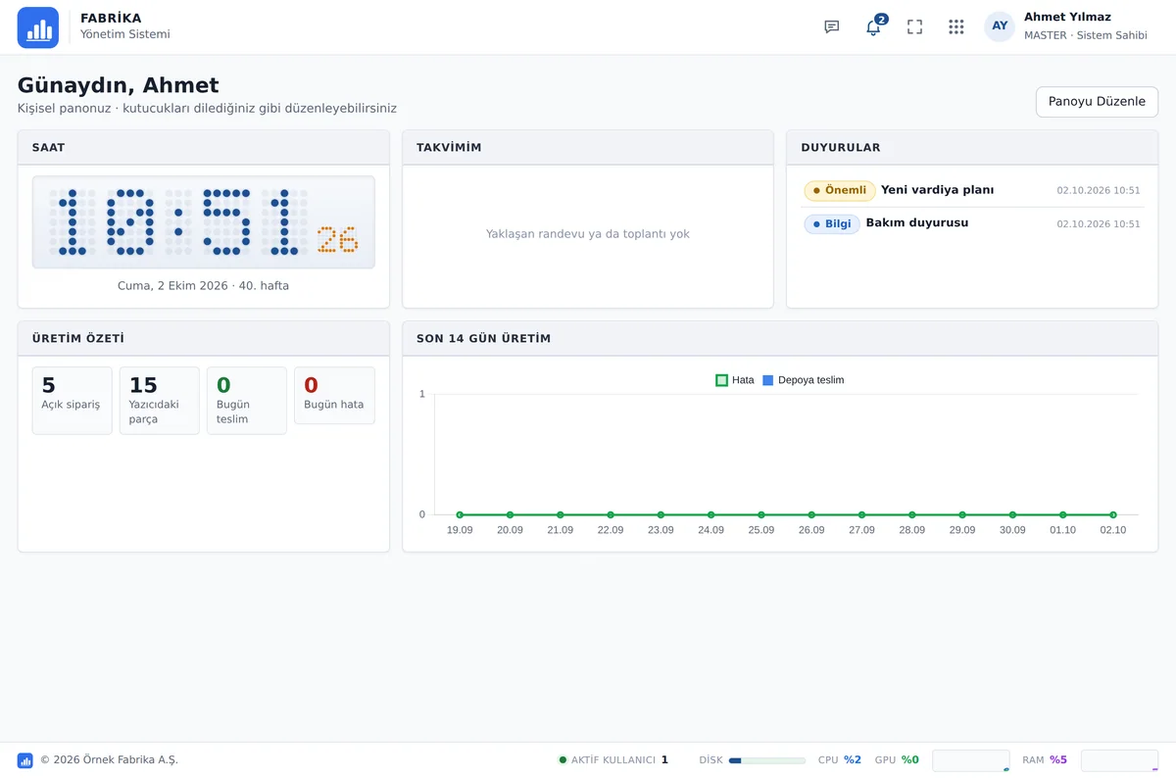
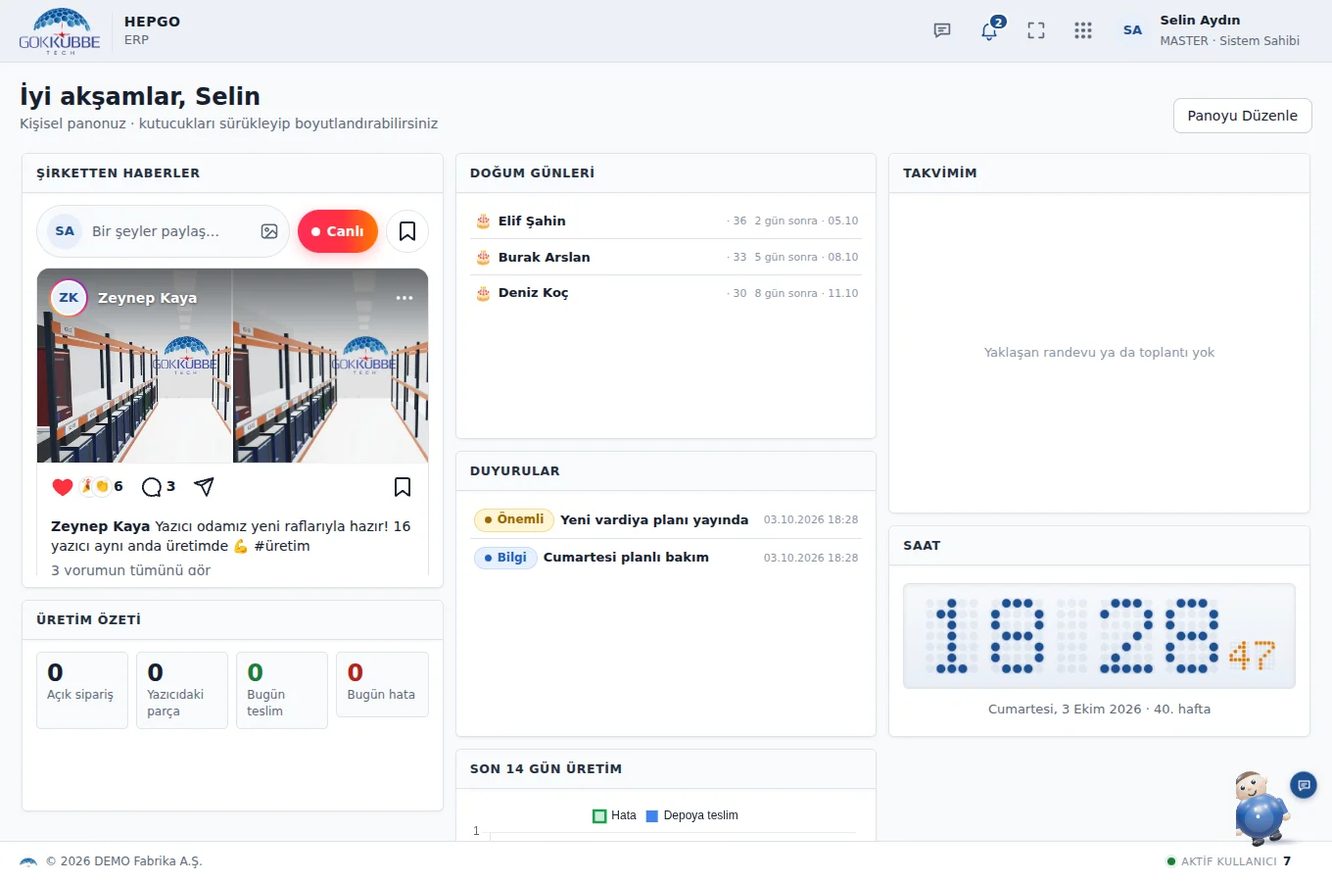
Tanıtım sayfası (veilox.app): sosyal akış + canlı yayın, Finans, 3D maskot; yeni ekran görüntüleri
- tests/gen_shots2.py: KURGUSAL demo şirketle (gerçek veri yok) ekran üretimi — paylaşımlar/yorum/kalp,
  sahte kamerayla canlı yayın (3B yazıcı odası kareleri), dengeli kurgusal yevmiye + nakit/çek-senet, 3D maskot
- landing.js: "Şirket içi sosyal ağ" (pano + canlı yayın) ve "Finans" satırları, AI satırı 3D maskot,
  kapak telefonu canlı yayın, galeriye nakit akışı + mizan, modül kataloğuna Finans / Şirketten Haberler / Canlı Yayın
- landing.html: önbellek için ?v= parametresi

Claude-Session: https://claude.ai/code/session_01VAjUeUumxUFrgUwuosU3gX

diff --git a/central/veilox_server/static/landing.js b/central/veilox_server/static/landing.js
@@ -79,18 +79,26 @@ const ROWS = [
     h: { tr: 'Zoom tarzı toplantı, ekibinizin içinde', en: 'Zoom-style meetings, inside your team' },
     p: { tr: 'Davet koduyla görüntülü toplantı; şirket dışından katılımcılar yalnızca bir linkle, giriş yapmadan katılır. Bekleme odası, ekran paylaşımı, el kaldırma sırası, toplantı içi sohbet ve kayıtların metne çevrilmesi.', en: 'Video meetings by invite code; external guests join with just a link, no sign-in. Waiting room, screen share, raise-hand queue, in-meeting chat and transcript of recordings.' },
     ticks: { tr: ['Bekleme odası ve katılımcı kabulü', 'Ekran paylaşımı ve el kaldırma', 'Kayıtların metne çevrilmesi'], en: ['Waiting room & admit guests', 'Screen share & raise hand', 'Transcripts of recordings'] } },
-  { eye: { tr: 'Yazıcı odası', en: 'Printer room' }, img: ['/static/img/landing/shots/printers.webp'], solo: true, rev: true,
+  { eye: { tr: 'Şirket içi sosyal ağ', en: 'Company social network' }, img: ['/static/img/landing/shots/m-live.webp', '/static/img/landing/shots/dashboard.webp'], solo: false, rev: true,
+    h: { tr: 'Şirketten haberler, sahadan canlı yayın', en: 'Company news, live from the field' },
+    p: { tr: 'Instagram kadar tanıdık bir akış: fotoğraf ve video paylaşımı, kalp ve yorumlar, kaydetme. Sahadaki ekip tek dokunuşla canlı yayın açar; herkese anında bildirim düşer, izleyenler yorum ve kalp gönderir, yayın bitince kayıt akışta paylaşılır.', en: 'A feed as familiar as Instagram: photo and video posts, hearts and comments, saves. Field teams go live with one tap; everyone is notified instantly, viewers send comments and hearts, and the recording is posted when the stream ends.' },
+    ticks: { tr: ['Fotoğraf / video, kalp, yorum ve yanıt', 'Tek dokunuşla canlı yayın + anlık bildirim', 'Tam ekran, kaydırarak gezinme'], en: ['Photo / video, hearts, comments & replies', 'One-tap live streaming + instant alerts', 'Full-screen, swipe to browse'] } },
+  { eye: { tr: 'Yazıcı odası', en: 'Printer room' }, img: ['/static/img/landing/shots/printers.webp'], solo: true,
     h: { tr: 'Onlarca 3B yazıcı, tek bakışta', en: 'Dozens of 3D printers, at a glance' },
     p: { tr: 'Yazıcılar ağdan otomatik bulunur, durumları saniyeler içinde okunur. Kayıtsız baskı ya da hata anında uyarı düşer; yazıcıya doğrudan G-code gönderilir.', en: 'Printers are auto-discovered on the network and polled within seconds. Unregistered prints or errors raise instant alerts; send G-code straight to the printer.' },
     ticks: { tr: ['Liste ve 3B oda görünümü', 'Doğrudan G-code gönderimi', 'Hata ve uyumsuzluk uyarıları'], en: ['List & 3D room view', 'Direct G-code dispatch', 'Error & mismatch alerts'] } },
+  { eye: { tr: 'Finans', en: 'Finance' }, img: ['/static/img/landing/shots/finance-statements.webp'], solo: true, rev: true,
+    h: { tr: 'Patronun görmesi gereken her şey, tek ekranda', en: 'Everything the owner needs to see, on one screen' },
+    p: { tr: 'Kasa, banka ve cari hesaplar; 12 haftalık nakit akışı tahmini, alacak ve borç yaşlandırma, çek / senet portföyü. Muhasebe programınızla senkron mizan, gelir tablosu ve bilanço özeti.', en: 'Cash, bank and customer accounts; a 12-week cash-flow forecast, receivable and payable aging, cheque / note portfolio. Trial balance, income statement and balance sheet in sync with your accounting software.' },
+    ticks: { tr: ['Nakit akışı tahmini ve yaşlandırma', 'Mizan, gelir tablosu, bilanço', 'Muhasebe programıyla tek yönlü senkron'], en: ['Cash-flow forecast & aging', 'Trial balance, P&L, balance sheet', 'One-way sync with accounting'] } },
   { eye: { tr: 'Ofis belgeleri', en: 'Office documents' }, img: ['/static/img/landing/shots/belge-word.webp'], solo: true,
     h: { tr: 'Excel, Word ve Sunum — uygulama içinde', en: 'Excel, Word & Slides — in the app' },
     p: { tr: 'Dış programa gerek yok. Belgelerinizi oluşturun, otomatik kaydedin; kime görüntüleme, kime düzenleme izni vereceğinizi seçin. Her kaydetmede sürüm geçmişi tutulur.', en: 'No external apps needed. Create documents, auto-save; choose who can view and who can edit. Version history is kept on every save.' },
     ticks: { tr: ['Excel / Word / Sunum', 'Görüntüleme & düzenleme izni', 'Sürüm geçmişi ve geri yükleme'], en: ['Excel / Word / Slides', 'View & edit permissions', 'Version history & restore'] } },
-  { eye: { tr: 'Yapay zeka', en: 'Artificial intelligence' }, img: ['/static/img/landing/mob-assistant.webp'], solo: true, rev: true,
+  { eye: { tr: 'Yapay zeka', en: 'Artificial intelligence' }, img: ['/static/img/landing/shots/mascot3d.webp'], solo: true, rev: true,
     h: { tr: 'Sorun, sistem cevaplasın', en: 'Ask, the system answers' },
     p: { tr: 'Köşedeki asistana “bugün kaç parça teslim edildi?” diye sorun; yalnızca sizin yetkili olduğunuz verilerle cevap verir. Bir kaydın değişmesini isterseniz talebi yöneticinin onayına gönderir.', en: 'Ask the corner assistant “how many parts shipped today?”; it answers only with data you are allowed to see. Want a record changed? It routes the request to admin approval.' },
-    ticks: { tr: ['Yetkiye göre salt-okunur sorgular', 'Değişiklikler yönetici onayıyla', 'Kişiye özel karakter'], en: ['Permission-scoped read-only queries', 'Changes via admin approval', 'Personalized character'] } },
+    ticks: { tr: ['Yetkiye göre salt-okunur sorgular', 'Değişiklikler yönetici onayıyla', '6 farklı 3D karakter'], en: ['Permission-scoped read-only queries', 'Changes via admin approval', '6 animated 3D characters'] } },
 ];
 
 // Gerçek ekran görüntüleri galerisi (tüm özellikler)
@@ -104,6 +112,8 @@ const GALLERY = [
   { img: S + 'belge-excel.webp', tr: 'Uygulama içi Excel', en: 'In-app spreadsheet' },
   { img: S + 'meet.webp', tr: 'Görüntülü toplantı', en: 'Video meetings' },
   { img: S + 'field.webp', tr: 'Saha yönetimi', en: 'Field management' },
+  { img: S + 'finance-cash.webp', tr: 'Nakit akışı ve yaşlandırma', en: 'Cash flow & aging' },
+  { img: S + 'finance-trial.webp', tr: 'Mizan', en: 'Trial balance' },
 ];
 
 // Tüm modüller — kategorilere göre (ikon, trAd, trAçıklama, enAd, enAçıklama)
@@ -117,7 +127,9 @@ const ic = {
   guard: '<path d="M12 3l8 3v6c0 4.5-3.4 8.3-8 9-4.6-.7-8-4.5-8-9V6z"/><path d="M9 12l2 2 4-4"/>', clean: '<path d="M19 3l-6 6M8 14l-4 7 7-4M8 14l5-5 2 2-5 5z"/>', micro: '<rect x="4" y="4" width="16" height="16" rx="2"/><path d="M9 15V9l3 3 3-3v6"/>',
   admin: '<path d="M4 20V10M10 20V4M16 20v-7M22 20H2"/>', users: '<circle cx="8" cy="9" r="3"/><circle cx="17" cy="10" r="2.4"/><path d="M2 20a6 6 0 0 1 12 0M15 20a5 5 0 0 1 7 0"/>', ann: '<path d="M3 11v2a1 1 0 0 0 1 1h3l6 5V5L7 10H4a1 1 0 0 0-1 1z"/><path d="M17 8a5 5 0 0 1 0 8"/>',
   rep: '<path d="M4 19V5M4 19h16M8 16v-5M12 16V8M16 16v-8"/>', tools: '<path d="M14 7l3 3M3 21l9-9M13 3a4 4 0 0 0 5 5l3-3-2-2-2 2-1-1 2-2-3-1z"/>',
-  meet: '<rect x="3" y="6" width="13" height="12" rx="2"/><path d="M16 10l5-3v10l-5-3z"/>', ai: '<circle cx="12" cy="12" r="4"/><path d="M12 2v3M12 19v3M2 12h3M19 12h3"/>', cam: '<rect x="3" y="7" width="13" height="10" rx="2"/><path d="M16 10l5-3v10l-5-3z"/>', screen: '<rect x="3" y="4" width="18" height="12" rx="2"/><path d="M8 20h8M12 16v4"/>',
+  meet: '<rect x="3" y="6" width="13" height="12" rx="2"/><path d="M16 10l5-3v10l-5-3z"/>', fin: '<rect x="2" y="6" width="20" height="13" rx="2"/><path d="M2 10h20M6 15h4"/>',
+  live: '<circle cx="12" cy="12" r="2.5"/><path d="M7.8 7.8a6 6 0 0 0 0 8.4M16.2 7.8a6 6 0 0 1 0 8.4M4.9 4.9a10 10 0 0 0 0 14.2M19.1 4.9a10 10 0 0 1 0 14.2"/>',
+  feed: '<rect x="3" y="3" width="18" height="18" rx="5"/><circle cx="12" cy="12" r="4"/><circle cx="17.5" cy="6.5" r="1"/>', ai: '<circle cx="12" cy="12" r="4"/><path d="M12 2v3M12 19v3M2 12h3M19 12h3"/>', cam: '<rect x="3" y="7" width="13" height="10" rx="2"/><path d="M16 10l5-3v10l-5-3z"/>', screen: '<rect x="3" y="4" width="18" height="12" rx="2"/><path d="M8 20h8M12 16v4"/>',
 };
 const MOD_CATS = [
   ['Üretim', 'Production', '#2f6fed', [
@@ -145,6 +157,7 @@ const MOD_CATS = [
     [ic.guard, 'Güvenlik', 'Araç giriş/çıkış, bina kontrol', 'Security', 'Vehicle gate, building patrol'],
     [ic.clean, 'Temizlik', 'Günlük temizlik çeklisti', 'Cleaning', 'Daily cleaning checklist'],
     [ic.micro, 'Mikro ERP', 'Tek yönlü muhasebe entegrasyonu', 'Micro ERP', 'One-way accounting sync'],
+    [ic.fin, 'Finans / Ön Muhasebe', 'Nakit akışı, çek-senet, mizan, gelir tablosu', 'Finance', 'Cash flow, cheques, trial balance, P&L'],
   ]],
   ['Sistem & Yönetim', 'System', '#7c5cf5', [
     [ic.admin, 'Yönetim', 'Canlı durum paneli, grafikler', 'Admin', 'Live dashboard, charts'],
@@ -159,6 +172,8 @@ const MOD_CATS = [
     [ic.ai, 'Yapay Zeka Asistanı', 'Yetkiye göre sorgu, onaylı değişiklik', 'AI assistant', 'Scoped queries, approvals'],
     [ic.cam, 'Kameralar & Yüz Tanıma', 'NVR, canlı izleme, yüz tanıma', 'Cameras & faces', 'NVR, live view, face ID'],
     [ic.screen, 'Ekran Paylaşımı', 'Uzaktan destek: izle + müdahale + sesli', 'Screen sharing', 'Remote support + control'],
+    [ic.feed, 'Şirketten Haberler', 'Instagram tarzı akış, kalp, yorum, kaydet', 'Company feed', 'Instagram-style feed, hearts, comments'],
+    [ic.live, 'Canlı Yayın', 'Sahadan canlı yayın, anlık bildirim, kayıt', 'Live streaming', 'Go live from the field, alerts, replay'],
   ]],
 ];
 
@@ -210,7 +225,7 @@ function page() {
       </div>
       <div class="hero-visual reveal">
         <div class="laptop"><div class="laptop-screen"><img class="shot" src="/static/img/landing/shots/dashboard.webp" alt="" loading="eager"></div><div class="laptop-base"></div></div>
-        <div class="phone phone-hero"><div class="phone-screen"><img class="shot" src="/static/img/landing/mob-meet.webp" alt=""></div></div>
+        <div class="phone phone-hero"><div class="phone-screen"><img class="shot" src="/static/img/landing/shots/m-live.webp" alt=""></div></div>
       </div>
     </div></section>
 

diff --git a/central/veilox_server/static/landing.html b/central/veilox_server/static/landing.html
@@ -7,10 +7,10 @@
 <title>HEPGO ERP — Fabrika Yönetim Yazılımı</title>
 <link rel="icon" href="/static/img/hepgo-mark.png">
 <meta name="theme-color" content="#0b1322">
-<link rel="stylesheet" href="/static/landing.css">
+<link rel="stylesheet" href="/static/landing.css?v=20261004">
 </head>
 <body>
 <div id="app"></div>
-<script type="module" src="/static/landing.js"></script>
+<script type="module" src="/static/landing.js?v=20261004"></script>
 </body>
 </html>

diff --git a/tests/gen_shots2.py b/tests/gen_shots2.py
@@ -1,0 +1,307 @@
+"""Tanıtım sayfası (veilox.app) için yeni ekran görüntüleri — KURGUSAL demo şirketle (gerçek veri kullanılmaz).
+
+Üretilenler (central/veilox_server/static/img/landing/shots/*.webp):
+  dashboard (yeni akışlı pano), m-feed (Instagram tarzı akış), m-viewer (tam ekran + sağ şerit), m-live (canlı yayın),
+  finance-cash, finance-statements, finance-trial, mascot3d.
+Çalıştırma: .venv/bin/python tests/gen_shots2.py   (Playwright Chromium; canlı yayın için sahte kamera dosyası üretilir)
+"""
+import io
+import json
+import os
+import random
+import socket
+import sys
+import tempfile
+import threading
+import time
+from datetime import date, timedelta
+
+ROOT = os.path.dirname(os.path.dirname(os.path.abspath(__file__)))
+sys.path.insert(0, ROOT)
+DATA = tempfile.mkdtemp()
+os.environ.update(CAYMAZ_DATA_DIR=DATA, CAYMAZ_PRINTER_POLL='0', CAYMAZ_FORCE_PASSWORD_CHANGE='0', CAYMAZ_ENV_FILE='/dev/null',
+                  CAYMAZ_ADMIN_USERNAME='demo@firma.com', CAYMAZ_ADMIN_PASSWORD='Demo-Sifre-12', CAYMAZ_ADMIN_FULL_NAME='Selin Aydın',
+                  CAYMAZ_MASTER_USERNAME='demo@firma.com', CAYMAZ_COMPANY_NAME='DEMO Fabrika A.Ş.', CAYMAZ_AI_API_KEY='sk-demo-yalnizca-gorsel')
+from PIL import Image  # noqa: E402
+
+OUT = os.path.join(ROOT, 'central/veilox_server/static/img/landing/shots')
+ROOM = os.path.join(ROOT, 'central/veilox_server/static/img/landing/desk-printers3d.webp')
+TMP = tempfile.mkdtemp()
+PW = 'Demo-Sifre-12'
+random.seed(7)
+
+
+def free_port():
+    s = socket.socket(); s.bind(('127.0.0.1', 0)); p = s.getsockname()[1]; s.close(); return p
+
+
+PORT = free_port()
+BASE = f'http://127.0.0.1:{PORT}'
+import uvicorn  # noqa: E402
+from app.main import app  # noqa: E402
+from app import auth, db  # noqa: E402
+
+threading.Thread(target=lambda: uvicorn.run(app, host='127.0.0.1', port=PORT, log_level='error'), daemon=True).start()
+for _ in range(80):
+    try:
+        socket.create_connection(('127.0.0.1', PORT), 0.3).close(); break
+    except OSError:
+        time.sleep(0.25)
+time.sleep(1.5)
+
+# ---------------- Görseller: 3B yazıcı odası kareleri (paylaşım fotoğrafları + sahte kamera) ----------------
+room = Image.open(ROOM).convert('RGB')
+scene = room.crop((30, 620, 2130, 1290))   # 3B oda bölümü
+
+
+def jpg(img, name):
+    p = os.path.join(TMP, name); img.save(p, 'JPEG', quality=90); return p
+
+
+photo1 = jpg(scene.crop((200, 0, 1550, 670)).resize((1350, 670)), 'oda1.jpg')
+photo2 = jpg(scene.crop((600, 0, 1270, 670)).resize((1080, 1080)), 'oda2.jpg')
+photo3 = jpg(scene.crop((0, 120, 900, 670)).resize((1080, 660)), 'oda3.jpg')
+# sahte kamera: odada yavaş yatay kaydırma (YUV4MPEG2, 4:2:0)
+Y4M = os.path.join(TMP, 'cam.y4m')
+W, H, N = 960, 540, 60
+with open(Y4M, 'wb') as f:
+    f.write(f'YUV4MPEG2 W{W} H{H} F12:1 Ip A1:1 C420jpeg\n'.encode())
+    sw = scene.width - 1200
+    for i in range(N):
+        x = int(sw * (0.5 - 0.5 * abs((i / N) * 2 - 1)))
+        fr = scene.crop((x, 0, x + 1200, 670)).resize((W, H)).convert('YCbCr')
+        y, cb, cr = fr.split()
+        f.write(b'FRAME\n' + y.tobytes() + cb.resize((W // 2, H // 2)).tobytes() + cr.resize((W // 2, H // 2)).tobytes())
+
+# ---------------- Kurgusal kullanıcılar ----------------
+PEOPLE = [('zeynep@demo.com', 'Zeynep Kaya'), ('mehmet@demo.com', 'Mehmet Demir'), ('ayse@demo.com', 'Ayşe Yılmaz'), ('can@demo.com', 'Can Öztürk'),
+          ('elif@demo.com', 'Elif Şahin'), ('burak@demo.com', 'Burak Arslan')]
+with db.connect() as conn:
+    for u, n in PEOPLE:
+        i = conn.execute('INSERT INTO users (username, full_name, password_hash, active, created_at, must_change_password) VALUES (?,?,?,1,?,0)',
+                         (u, n, auth.hash_password(PW), db.now())).lastrowid
+        conn.execute('INSERT INTO user_roles (user_id, role) VALUES (?,?)', (i, auth.ADMIN_STAFF))
+    conn.commit()
+
+import httpx  # noqa: E402
+
+
+def client(user):
+    c = httpx.Client(base_url=BASE, timeout=60)
+    r = c.post('/api/auth/login', json={'username': user, 'password': PW})
+    assert r.status_code == 200, r.text
+    return c
+
+
+admin = client('demo@firma.com')
+cl = {u: client(u) for u, _ in PEOPLE}
+
+# ---------------- Şirketten Haberler: paylaşımlar, tepkiler, yorumlar ----------------
+from app import feed  # noqa: E402
+with db.connect() as conn:
+    feed.add_event(conn, 'HIRE', 'Elif Şahin kalite ekibine katıldı. Aramıza hoş geldin!')
+    feed.add_event(conn, 'ORDER', 'Yeni sipariş: SP-0142 · Anadolu Savunma A.Ş. · 40 adet gövde seti')
+    conn.commit()
+
+
+def post(c, text, files=()):
+    fs = [('files', (os.path.basename(p), open(p, 'rb'), 'image/jpeg')) for p in files]
+    r = c.post('/api/feed', data={'text': text}, files=fs)
+    assert r.status_code == 200, r.text
+    return r.json()['id']
+
+
+p0 = post(cl['ayse@demo.com'], 'Bu ay 1.240 parça teslim ettik — planın %112’si! Emeği geçen herkese teşekkürler 🎉')
+p1 = post(cl['mehmet@demo.com'], 'Montaj hattında yeni fikstürler devrede; çevrim süresi 6 dakikadan 4’e indi ⏱', [photo3])
+p2 = post(cl['zeynep@demo.com'], 'Yazıcı odamız yeni raflarıyla hazır! 16 yazıcı aynı anda üretimde 💪 #üretim', [photo1, photo2])
+for u, em in [('mehmet@demo.com', '❤'), ('ayse@demo.com', '👏'), ('can@demo.com', '❤'), ('elif@demo.com', '🎉'), ('burak@demo.com', '❤'), ('demo@firma.com', '❤')]:
+    (admin if u == 'demo@firma.com' else cl[u]).post(f'/api/feed/{p2}/react', json={'emoji': em})
+for u in ('zeynep@demo.com', 'can@demo.com', 'demo@firma.com'):
+    (admin if u == 'demo@firma.com' else cl[u]).post(f'/api/feed/{p0}/react', json={'emoji': '🎉'})
+c1 = cl['can@demo.com'].post(f'/api/feed/{p2}/comments', json={'text': 'Harika olmuş, kablolama da çok düzenli 👌'}).json()['id']
+cl['zeynep@demo.com'].post(f'/api/feed/{p2}/comments', json={'text': 'Teşekkürler Can! Haftaya kalibrasyon istasyonu da geliyor.', 'parent_id': c1})
+cl['elif@demo.com'].post(f'/api/feed/{p2}/comments', json={'text': 'Kalite tarafında ilk partiyi bugün onayladık ✅'})
+cl['mehmet@demo.com'].post(f'/api/feed/comments/{c1}/like')
+cl['ayse@demo.com'].post(f'/api/feed/{p1}/comments', json={'text': 'Süper iyileştirme 👏'})
+
+# ---------------- Finans: kurgusal cariler, banka/kasa, hareketler, çek/senet, planlı kalemler, dengeli yevmiye ----------------
+today = date.today()
+CUST = ['Anadolu Savunma A.Ş.', 'Ege Otomotiv Ltd. Şti.', 'Marmara Elektronik A.Ş.', 'Kuzey Lojistik A.Ş.', 'Başkent Medikal Ltd.']
+SUPP = ['Atlas Metal San.', 'Delta Plastik A.Ş.', 'Nova Kimya Ltd.', 'Orion Elektronik Komponent']
+with db.connect() as conn:
+    ids = {}
+    for n in CUST + SUPP:
+        ids[n] = conn.execute('INSERT INTO companies (name, active, created_at, is_supplier) VALUES (?,1,?,?)', (n, db.now(), 1 if n in SUPP else 0)).lastrowid
+
+    def acc(kind, name, company=None, opening=0, iban=None, bank=None):
+        return conn.execute('INSERT INTO fin_accounts (kind, name, company_id, opening, iban, bank, active, created_at) VALUES (?,?,?,?,?,?,1,?)',
+                            (kind, name, company, opening, iban, bank, db.now())).lastrowid
+    kasa = acc('kasa', 'Merkez Kasa', opening=48_500)
+    banks = [acc('banka', 'Ziraat Bankası', opening=1_850_000, iban='TR000001000000000000000001', bank='Ziraat Bankası'),
+             acc('banka', 'Garanti BBVA', opening=920_000, iban='TR000006200000000000000002', bank='Garanti BBVA'),
+             acc('banka', 'İş Bankası', opening=410_000, iban='TR000006400000000000000003', bank='İş Bankası')]
+    cari = {n: acc('cari', n, ids[n]) for n in CUST + SUPP}
+
+    def tx(a, d, dirn, amt, desc, cat=None, due=None):
+        conn.execute('INSERT INTO fin_txns (account_id, date, direction, amount, currency, category, description, due_date, created_at) VALUES (?,?,?,?,?,?,?,?,?)',
+                     (a, d.isoformat(), dirn, round(amt, 2), 'TRY', cat, desc, due.isoformat() if due else None, db.now()))
+    for m in range(5, -1, -1):   # son 6 ay
+        base = today.replace(day=1) - timedelta(days=30 * m)
+        for n in CUST:
+            amt = random.randint(180, 950) * 1000
+            d = base + timedelta(days=random.randint(2, 20))
+            tx(cari[n], d, 'in', amt, f'Satış faturası {n.split()[0]}', 'Fatura', d + timedelta(days=random.choice([30, 45, 60])))
+            if m > 0 or random.random() < .4:   # tahsilat (eski aylar)
+                b = random.choice(banks); pay = amt * random.uniform(.6, 1.0)
+                tx(cari[n], d + timedelta(days=35), 'out', pay, 'Havale ile tahsilat', 'Gelen havale')
+                tx(b, d + timedelta(days=35), 'in', pay, f'Tahsilat · {n}', 'Gelen havale')
+        for n in SUPP:
+            amt = random.randint(90, 420) * 1000
+            d = base + timedelta(days=random.randint(3, 22))
+            tx(cari[n], d, 'out', amt, f'Alış faturası {n.split()[0]}', 'Fatura', d + timedelta(days=random.choice([30, 60])))
+            if m > 0:
+                b = random.choice(banks); pay = amt * random.uniform(.7, 1.0)
+                tx(cari[n], d + timedelta(days=40), 'in', pay, 'Havale ile ödeme', 'Giden havale')
+                tx(b, d + timedelta(days=40), 'out', pay, f'Ödeme · {n}', 'Giden havale')
+        for desc, amt in [('Personel maaşları', 1_180_000), ('Fabrika kirası', 85_000), ('Elektrik', 64_000), ('SGK primleri', 410_000)]:
+            tx(banks[0], base + timedelta(days=5), 'out', amt * random.uniform(.95, 1.05), desc, 'Gider')
+        tx(kasa, base + timedelta(days=9), 'out', random.randint(6, 18) * 1000, 'Kırtasiye ve mutfak', 'Gider')
+    for k, dirn, num, bank, comp, amt, due, st in [
+        ('cek', 'alinan', 'ZR-4471205', 'Ziraat Bankası', 'Anadolu Savunma A.Ş.', 650_000, 18, 'portfoy'),
+        ('cek', 'alinan', 'GR-0193320', 'Garanti BBVA', 'Ege Otomotiv Ltd. Şti.', 240_000, 33, 'tahsilde'),
+        ('cek', 'alinan', 'IS-7720018', 'İş Bankası', 'Marmara Elektronik A.Ş.', 180_000, 52, 'portfoy'),
+        ('senet', 'verilen', 'S-2026-14', None, 'Atlas Metal San.', 320_000, 26, 'portfoy'),
+        ('cek', 'verilen', 'ZR-0099812', 'Ziraat Bankası', 'Delta Plastik A.Ş.', 145_000, 40, 'portfoy')]:
+        conn.execute('''INSERT INTO fin_instruments (kind, direction, number, bank, company_id, amount, due_date, status, created_at, updated_at)
+                        VALUES (?,?,?,?,?,?,?,?,?,?)''', (k, dirn, num, bank, ids[comp], amt, (today + timedelta(days=due)).isoformat(), st, db.now(), db.now()))
+    for d, dirn, amt, desc, cat in [(5, 'out', 85_000, 'Fabrika kirası', 'Kira'), (10, 'out', 142_000, 'Yatırım kredisi taksidi', 'Kredi'),
+                                    (3, 'out', 1_180_000, 'Personel maaşları', 'Maaş'), (20, 'in', 95_000, 'Teşvik geri ödemesi', 'Teşvik')]:
+        dd = today.replace(day=d) if today.day < d else (today.replace(day=1) + timedelta(days=32)).replace(day=d)
+        conn.execute("INSERT INTO fin_plans (date, direction, amount, description, category, repeat, created_at) VALUES (?,?,?,?,?, 'monthly', ?)",
+                     (dd.isoformat(), dirn, amt, desc, cat, db.now()))
+    # Dengeli yevmiye (Tekdüzen hesap planı; kurgusal tutarlar)
+    COA = {'1': 'DÖNEN VARLIKLAR', '10': 'HAZIR DEĞERLER', '100': 'KASA', '100.01': 'Merkez Kasa', '102': 'BANKALAR', '102.01': 'Ziraat Bankası',
+           '102.02': 'Garanti BBVA', '102.03': 'İş Bankası', '12': 'TİCARİ ALACAKLAR', '120': 'ALICILAR', '101': 'ALINAN ÇEKLER', '101.01': 'Portföydeki çekler',
+           '15': 'STOKLAR', '150': 'İLK MADDE VE MALZEME', '152': 'MAMULLER', '19': 'DİĞER DÖNEN VARLIKLAR', '191': 'İNDİRİLECEK KDV',
+           '2': 'DURAN VARLIKLAR', '25': 'MADDİ DURAN VARLIKLAR', '253': 'TESİS, MAKİNE VE CİHAZLAR', '257': 'BİRİKMİŞ AMORTİSMANLAR (−)',
+           '3': 'KISA VADELİ YABANCI KAYNAKLAR', '32': 'TİCARİ BORÇLAR', '320': 'SATICILAR', '33': 'DİĞER BORÇLAR', '335': 'PERSONELE BORÇLAR',
+           '36': 'ÖDENECEK VERGİ VE DİĞER YÜKÜMLÜLÜKLER', '360': 'ÖDENECEK VERGİ VE FONLAR', '361': 'ÖDENECEK SOSYAL GÜVENLİK KESİNTİLERİ',
+           '39': 'DİĞER KISA VADELİ YABANCI KAYNAKLAR', '391': 'HESAPLANAN KDV', '4': 'UZUN VADELİ YABANCI KAYNAKLAR', '40': 'MALİ BORÇLAR', '400': 'BANKA KREDİLERİ',
+           '5': 'ÖZKAYNAKLAR', '50': 'ÖDENMİŞ SERMAYE', '500': 'SERMAYE', '57': 'GEÇMİŞ YILLAR KÂRLARI', '570': 'GEÇMİŞ YILLAR KÂRLARI',
+           '6': 'GELİR TABLOSU HESAPLARI', '60': 'BRÜT SATIŞLAR', '600': 'YURT İÇİ SATIŞLAR', '601': 'YURT DIŞI SATIŞLAR', '61': 'SATIŞ İNDİRİMLERİ',
+           '611': 'SATIŞ İSKONTOLARI', '62': 'SATIŞLARIN MALİYETİ', '620': 'SATILAN MAMULLER MALİYETİ', '63': 'FAALİYET GİDERLERİ',
+           '631': 'PAZARLAMA SATIŞ VE DAĞITIM GİDERLERİ', '632': 'GENEL YÖNETİM GİDERLERİ', '66': 'FİNANSMAN GİDERLERİ', '660': 'KISA VADELİ BORÇLANMA GİDERLERİ',
+           '64': 'DİĞER FAALİYETLERDEN OLAĞAN GELİR VE KÂRLAR', '642': 'FAİZ GELİRLERİ'}
+    for i, n in enumerate(CUST, 1):
+        COA[f'120.01.{i:03d}'] = n
+    for i, n in enumerate(SUPP, 1):
+        COA[f'320.01.{i:03d}'] = n
+    for k, v in COA.items():
+        conn.execute('INSERT INTO fin_coa (code, name, updated_at) VALUES (?,?,?)', (k, v, db.now()))
+    seq = [0]
+
+    def je(d, lines, desc):
+        seq[0] += 1
+        for k, (acc_code, deb, cre) in enumerate(lines):
+            conn.execute('INSERT INTO fin_ledger (guid, date, journal_no, entry_no, kind, account, description, debit, credit) VALUES (?,?,?,?,0,?,?,?,?)',
+                         (f'demo-{seq[0]}-{k}', d.isoformat(), seq[0], seq[0], acc_code, desc, round(deb, 2), round(cre, 2)))
+    y0 = date(today.year, 1, 1)
+    je(y0, [('100.01', 60_000, 0), ('102.01', 2_400_000, 0), ('102.02', 900_000, 0), ('253', 18_500_000, 0), ('152', 3_200_000, 0),
+            ('257', 0, 4_100_000), ('400', 0, 6_000_000), ('500', 0, 10_000_000), ('570', 0, 4_960_000)], 'Açılış fişi')
+    for mth in range(1, today.month + 1):
+        d = date(today.year, mth, 15)
+        for i, n in enumerate(CUST, 1):
+            net = random.randint(380, 1100) * 1000
+            je(d, [(f'120.01.{i:03d}', net * 1.2, 0), ('600', 0, net), ('391', 0, net * .2)], f'Satış faturası · {n}')
+            je(d + timedelta(days=10), [(random.choice(['102.01', '102.02', '102.03']), net * 1.2 * .85, 0), (f'120.01.{i:03d}', 0, net * 1.2 * .85)], f'Tahsilat · {n}')
+            je(d, [('620', net * .52, 0), ('152', 0, net * .52)], 'Satılan mamul maliyeti')
+        if mth % 3 == 0:
+            je(d, [('120.01.001', 1_440_000, 0), ('601', 0, 1_440_000)], 'İhracat faturası')
+            je(d, [('611', 60_000, 0), ('120.01.002', 0, 72_000), ('391', 12_000, 0)], 'Satış iskontosu')
+        for i, n in enumerate(SUPP, 1):
+            net = random.randint(260, 700) * 1000
+            je(d, [('150', net, 0), ('191', net * .2, 0), (f'320.01.{i:03d}', 0, net * 1.2)], f'Alış faturası · {n}')
+            je(d + timedelta(days=20), [(f'320.01.{i:03d}', net * 1.2 * .9, 0), ('102.01', 0, net * 1.2 * .9)], f'Ödeme · {n}')
+            je(d, [('152', net * .95, 0), ('150', 0, net * .95)], 'Üretime sevk')
+        je(d + timedelta(days=13), [('632', 1_180_000, 0), ('335', 0, 1_180_000)], 'Personel maaş tahakkuku')
+        je(d + timedelta(days=14), [('335', 1_180_000, 0), ('102.01', 0, 1_180_000)], 'Maaş ödemesi')
+        je(d, [('632', 149_000, 0), ('631', 96_000, 0), ('102.02', 0, 245_000)], 'Kira, enerji, lojistik giderleri')
+        je(d, [('660', 92_000, 0), ('400', 140_000, 0), ('102.01', 0, 232_000)], 'Kredi taksidi ve faizi')
+        je(d, [('102.03', 21_000, 0), ('642', 0, 21_000)], 'Mevduat faizi')
+        je(d, [('632', 120_000, 0), ('257', 0, 120_000)], 'Amortisman')
+    conn.execute("INSERT OR REPLACE INTO app_kv (k, v) VALUES ('fin.settings', ?)", (json.dumps({'payday': 0, 'salaries': True}),))
+    # 3D maskot + mobilde tam ekran akış (yalnızca görsel)
+    conn.commit()
+with db.connect() as conn:   # pano: duyurular + yaklaşan doğum günleri
+    for t, lv, body in [('Yeni vardiya planı yayında', 'ONEMLI', 'Ekim vardiya çizelgesi İK panosunda.'), ('Cumartesi planlı bakım', 'BILGI', '08:00–12:00 arası kompresör bakımı.')]:
+        conn.execute('INSERT INTO announcements (title, body, level, created_by, created_at) VALUES (?,?,?,?,?)', (t, body, lv, 1, db.now()))
+    for k, (fn, ln) in enumerate([('Elif', 'Şahin'), ('Burak', 'Arslan'), ('Deniz', 'Koç')]):
+        bd = (today + timedelta(days=2 + k * 3)).replace(year=1990 + k * 3)
+        conn.execute("INSERT INTO employees (first_name, last_name, status, birth_date, created_at) VALUES (?,?,'AKTIF',?,?)", (fn, ln, bd.isoformat(), db.now()))
+    conn.commit()
+admin.put('/api/auth/prefs/settings', json={'mascot': 'kubbe', 'mascot3d': True, 'feedFullMobile': True})
+print('demo verisi hazır')
+
+# ---------------- Ekran görüntüleri ----------------
+from playwright.sync_api import sync_playwright  # noqa: E402
+
+shots = {}
+with sync_playwright() as p:
+    b = p.chromium.launch(args=['--use-fake-ui-for-media-stream', '--use-fake-device-for-media-stream', f'--use-file-for-fake-video-capture={Y4M}',
+                                '--autoplay-policy=no-user-gesture-required', '--use-angle=swiftshader', '--enable-unsafe-swiftshader', '--ignore-gpu-blocklist'])
+
+    def page(user, mobile=False):
+        ctx = b.new_context(viewport={'width': 390, 'height': 844} if mobile else {'width': 1360, 'height': 900}, device_scale_factor=2 if mobile else 1,
+                            is_mobile=mobile, has_touch=mobile, permissions=['camera', 'microphone'])
+        pg = ctx.new_page()
+        pg.goto(f'{BASE}/app', wait_until='networkidle')
+        pg.fill('input[type=email]', user); pg.fill('input[type=password]', PW); pg.click('button[type=submit]')
+        pg.wait_for_timeout(2500)
+        pg.evaluate("localStorage.setItem('caymaz.liveMime','video/mp4;codecs=vp9,opus')")
+        return pg
+
+    def snap(pg, name, full=False):
+        path = os.path.join(TMP, f'{name}.png'); pg.screenshot(path=path, full_page=full); shots[name] = path; print('ok', name)
+
+    D = page('demo@firma.com')
+    D.evaluate("location.hash='#/messages'"); D.wait_for_timeout(800); D.evaluate("location.hash='#/'"); D.wait_for_timeout(3500)
+    snap(D, 'dashboard')
+    for sub in ('cash', 'statements', 'trial'):
+        D.evaluate(f"location.hash='#/finance/{sub}'"); D.wait_for_timeout(3000)
+        snap(D, f'finance-{sub}')
+    D.evaluate("location.hash='#/settings/mascot'"); D.wait_for_timeout(4000)
+    snap(D, 'mascot3d')
+    M = page('zeynep@demo.com', mobile=True)
+    M.evaluate("async()=>{await fetch('/api/auth/prefs/settings',{method:'PUT',headers:{'Content-Type':'application/json'},body:JSON.stringify({feedFullMobile:true, mascot:'pati', mascot3d:true})});}")
+    M.reload(); M.wait_for_timeout(3500)
+    M.locator('.feed-post', has_text='raflarıyla').first.scroll_into_view_if_needed(); M.wait_for_timeout(400)
+    M.evaluate("()=>{const e=document.querySelector('.feed-post.has-media'); if(e) e.scrollIntoView({block:'start'}); window.scrollBy(0,-70)}"); M.wait_for_timeout(800)
+    snap(M, 'm-feed')
+    M.locator('.feed-post', has_text='raflarıyla').first.locator('.feed-media').first.click(); M.wait_for_timeout(1500)
+    snap(M, 'm-viewer')
+    M.keyboard.press('Escape'); M.wait_for_timeout(500)
+    # canlı yayın: Mehmet yayında, Zeynep (telefon) izliyor, diğerleri yorum + kalp gönderiyor
+    L = page('mehmet@demo.com', mobile=True)
+    L.locator('.feed-livebtn').click(); L.wait_for_timeout(2500)
+    L.locator('.lv-title-in').fill('Yazıcı odasından canlı: yeni raflar'); L.locator('.lv-go').click(); L.wait_for_timeout(5000)
+    viewers = [page(u) for u in ('can@demo.com', 'elif@demo.com', 'ayse@demo.com')]
+    lid = L.evaluate("async()=>{const r=await (await fetch('/api/live/active')).json(); return r[0].id}")
+    for v in viewers:
+        v.evaluate(f"location.hash='#/live/{lid}'"); v.wait_for_timeout(2000)
+    M.evaluate(f"location.hash='#/live/{lid}'"); M.wait_for_timeout(5000)
+    for v, txt in zip(viewers, ['Harika görünüyor! 👏', 'Kalibrasyon istasyonu nereye gelecek?', 'Ellerinize sağlık 💪']):
+        v.locator('.lv-input').fill(txt); v.locator('.lv-input').press('Enter'); v.wait_for_timeout(700)
+        for _ in range(4):
+            v.locator('.lv-heartbtn').click(); v.wait_for_timeout(120)
+    M.wait_for_timeout(900)
+    M.evaluate("()=>document.querySelector('.lv-sound')?.setAttribute('hidden','')")
+    snap(M, 'm-live')
+    b.close()
+
+os.makedirs(OUT, exist_ok=True)
+for name, path in shots.items():
+    im = Image.open(path).convert('RGB')
+    if im.width > 1600:
+        im = im.resize((im.width // 2 if name.startswith('m-') else im.width, im.height // 2 if name.startswith('m-') else im.height))
+    im.save(os.path.join(OUT, f'{name}.webp'), 'WEBP', quality=86, method=5)
+print('Kaydedildi →', OUT, sorted(shots))
